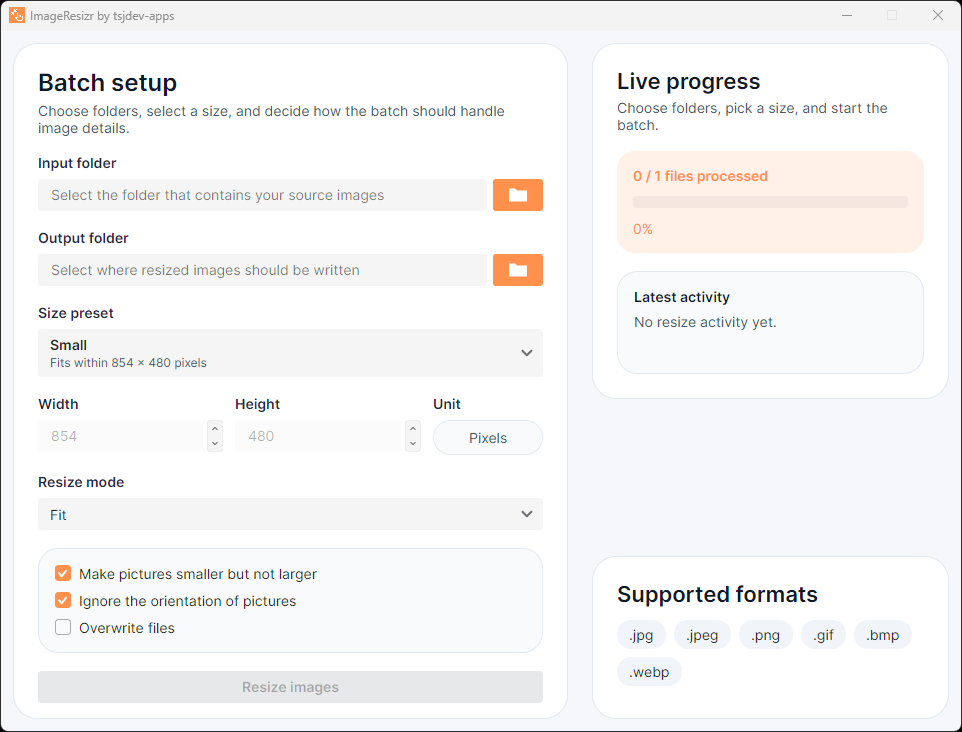
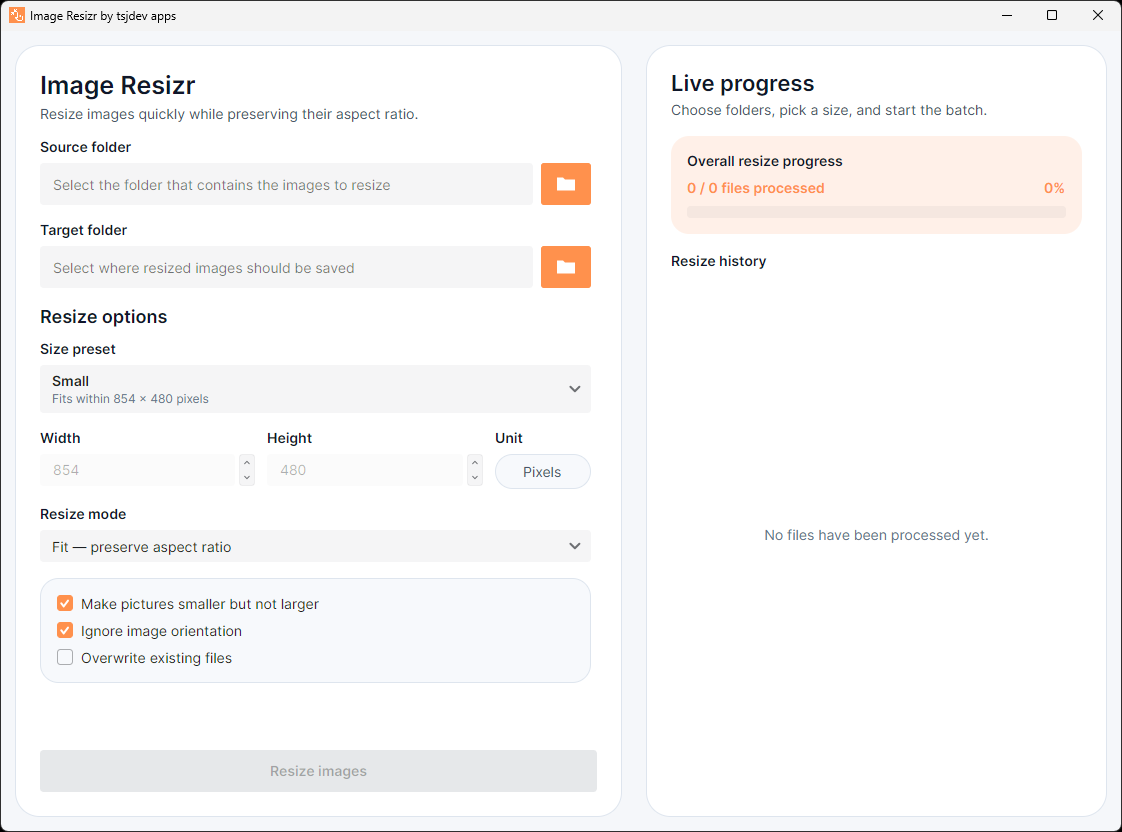
Refresh README and screenshots
This update revises the project documentation to match the current app experience: a two-card workflow, live resize history, progress counts and percentage tracking, localization, and theme-aware UI. It also refreshes the screenshots to reflect the latest configuration, processing, and completion states.

diff --git a/README.md b/README.md
@@ -1,8 +1,8 @@
 # Image Resizr
 
-Image Resizr is a cross-platform desktop app for resizing entire folders of images without turning the task into a script. Built with Avalonia on .NET, it focuses on a practical batch workflow: choose a source folder, pick a preset or custom size, decide how the image should fit the target bounds, and export a resized set with live progress feedback.
+Image Resizr is a cross-platform desktop app for resizing entire folders of images without turning the task into a script. Built with Avalonia on .NET, it focuses on a practical batch workflow: choose a source folder, pick a preset or custom size, decide how the image should fit the target bounds, and follow every result in a live processing history.
 
-![Illustrated header for ImageResizr](docs/header.jpg)
+![Illustrated header for Image Resizr](docs/header.jpg)
 
 The project is aimed at everyday image-processing jobs such as preparing lighter photo folders, generating web-ready assets, creating preview copies, or reducing large batches before sharing them.
 
@@ -15,30 +15,34 @@ The project is aimed at everyday image-processing jobs such as preparing lighter
 - Prevent upscaling with the `Shrink only` option
 - Respect or ignore EXIF orientation metadata
 - Skip or overwrite existing files with safe temporary-file writes
-- Track progress through live status updates and completion summaries
+- Track every processed image with its original and resulting dimensions
+- Distinguish resized, overwritten, skipped, and failed files in the live history
+- Follow overall progress through processed-file counts, a progress bar, and percentage updates
+- Automatically use English or German based on the operating-system UI language
+- Follow the operating-system light or dark appearance while retaining the orange accent color
 - Support `.jpg`, `.jpeg`, `.png`, `.gif`, `.bmp`, and `.webp`
 
 > Note: the current resize workflow processes files from the selected input folder only. It does not recurse into nested subfolders.
 
 ## Screenshots
 
-### Batch setup
+### Resize configuration
 
-![ImageResizr batch setup screen](docs/screenshot01.png)
+![Image Resizr resize configuration and empty progress history](docs/screenshot01.png)
 
-The main screen keeps the workflow simple: select an input folder, choose an output folder, apply a preset or custom size, and control how the batch should treat orientation, overwrites, and upscaling.
+The two-card layout keeps configuration and processing feedback visible together. Select source and target folders, apply a preset or custom size, and control how the batch should treat orientation, overwrites, and upscaling.
 
 ### Live progress during a running batch
 
-![ImageResizr live progress while resizing images](docs/screenshot02.png)
+![Image Resizr live progress while resizing images](docs/screenshot02.png)
 
-While the batch is running, ImageResizr shows overall progress, the latest file activity, and a clear status message so you can see what the app is doing at a glance.
+While the batch is running, Image Resizr updates the processed-file count, percentage, progress bar, and a scrollable per-image history. Successful entries show the dimension change in the compact `4032 × 3024 → 1920 × 1440` format, while skipped and failed files include a readable reason.
 
 ### Completion summary
 
-![ImageResizr completion summary after resizing images](docs/screenshot03.png)
+![Image Resizr completion summary and resize history](docs/screenshot03.png)
 
-After the batch finishes, the same workspace shows the final summary, including processed files and saved space, without forcing you into a separate report view.
+After the batch finishes, the same workspace retains the complete result history and shows the final summary, including processed files and saved space, without forcing you into a separate report view. Starting another batch clears the previous history and resets all progress values.
 
 ## Resize Workflow
 
@@ -47,15 +51,38 @@ After the batch finishes, the same workspace shows the final summary, including 
 3. Pick a preset or switch to a custom size.
 4. Select the resize mode: `Fit` keeps the full image inside the target bounds, `Fill` fills the target bounds and crops as needed, and `Stretch` forces the exact size.
 5. Decide whether to avoid enlarging smaller images, ignore EXIF orientation, or overwrite existing files.
-6. Start the batch and follow the live progress panel.
+6. Start the batch and follow overall progress and individual image results in the live progress panel.
 
 ## Built-in Presets
 
-- `Small`: fits within `854 x 480`
-- `Medium`: fits within `1366 x 768`
-- `Large`: fits within `1920 x 1080`
-- `Phone`: fits within `320 x 568`
+- `Small`: fits within `854 × 480`
+- `Medium`: fits within `1366 × 768`
+- `Large`: fits within `1920 × 1080`
+- `Phone`: fits within `320 × 568`
 - `Custom`: lets you enter your own pixel dimensions
+
+## Live Progress and Resize History
+
+The progress card occupies the full right side of the application and remains the same effective height as the configuration card. Its compact summary displays the current file count, progress percentage, and progress bar, leaving most of the available space for the virtualized history list.
+
+Each completed image creates one history entry:
+
+- **Resized** and **overwritten** entries show original and resulting dimensions.
+- **Skipped** entries explain whether the output already exists or the image already satisfies the requested size.
+- **Failed** entries remain visible without interrupting the rest of the batch.
+- A final **Summary** entry reports resized, overwritten, skipped, and failed totals.
+
+The latest entry is kept visible automatically while processing. The list scrolls internally, so large batches do not increase the window height.
+
+## Localization and Appearance
+
+Image Resizr includes English and German resources. The application uses the operating system's current UI culture automatically:
+
+- German cultures such as `de-DE`, `de-AT`, and `de-CH` use German.
+- English cultures use English.
+- Other cultures fall back to English.
+
+Localized text covers the complete workflow, including labels, folder dialogs, presets, resize modes, validation, progress summaries, and history statuses. The interface also follows the operating system's light or dark theme.
 
 ## Supported Formats
 
@@ -104,9 +131,9 @@ There is no separate lint command. Repository analyzers and code-style checks ru
 
 ## Project Structure
 
-- `src/ImageResizr.App`: Avalonia desktop UI shell
-- `src/ImageResizr.Core`: resize pipeline, models, and file/image processing
-- `tests/ImageResizr.Tests`: xUnit tests for the service and the view model
+- `src/ImageResizr.App`: Avalonia desktop UI, localization resources, and presentation models
+- `src/ImageResizr.Core`: resize pipeline, structured result models, and file/image processing
+- `tests/ImageResizr.Tests`: xUnit tests for resizing, progress history, and localization
 
 The solution intentionally keeps the UI thin. Avalonia-specific code lives in the app project, while the resize workflow, validation, format handling, and progress reporting live in the core library.
 
@@ -120,7 +147,7 @@ The solution intentionally keeps the UI thin. Avalonia-specific code lives in th
 
 ## Quality
 
-The repository includes automated coverage for both the batch resize service and the window view model. Tests verify resize behavior, file handling, overwrite rules, shrink-only logic, progress reporting, and completion-state behavior.
+The repository includes automated coverage for both the batch resize service and the window view model. Tests verify resize behavior, file handling, overwrite rules, shrink-only logic, structured progress entries, dimension reporting, history reset behavior, percentage calculation, German resources, and English fallback.
 
 ## License
 
